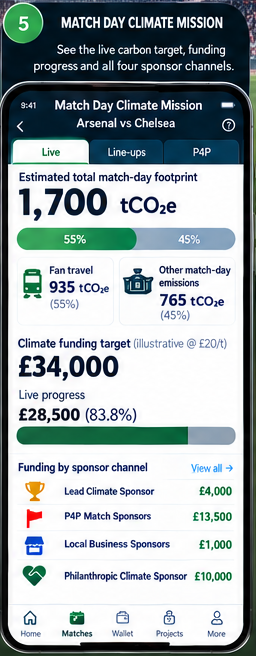
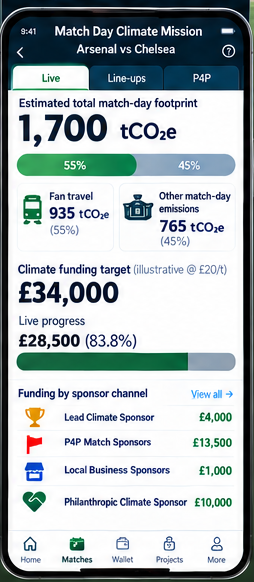
Use the new How S4P Works phone screens for steps 01-06.
Drop the extra title strip above each phone so the carousel shows the attached mockups only.

diff --git a/app/components/home/HowItWorks.tsx b/app/components/home/HowItWorks.tsx
@@ -30,7 +30,7 @@ const steps: Array<{
     src: "/images/home/access-join-phone.png",
     alt: "Access and join Score-For-Planet. Same passion. Cleaner planet. Scan the QR code to join, create an account, or log in.",
     width: 248,
-    height: 662,
+    height: 584,
     number: "01",
     badge: "Step 1",
     title: "Access & Join",
@@ -46,7 +46,7 @@ const steps: Array<{
     src: "/images/home/select-match-phone.png",
     alt: "Select match. Choose your club and match from the calendar. Arsenal fixtures including Arsenal vs Chelsea at Emirates Stadium.",
     width: 247,
-    height: 671,
+    height: 589,
     number: "02",
     badge: "Step 2",
     title: "Select Match",
@@ -62,7 +62,7 @@ const steps: Array<{
     src: "/images/home/how-youre-supporting-phone.png",
     alt: "How you're supporting. Tell us if you're attending the match or watching remotely. Arsenal vs Chelsea at Emirates Stadium.",
     width: 252,
-    height: 662,
+    height: 585,
     number: "03",
     badge: "Step 3",
     title: "How You're Supporting",
@@ -78,7 +78,7 @@ const steps: Array<{
     src: "/images/home/plan-your-travel-phone.png",
     alt: "Plan your travel. Simple input. No postcode. Just your estimated miles and travel type. Arsenal vs Chelsea travel footprint.",
     width: 244,
-    height: 659,
+    height: 581,
     number: "04",
     badge: "Step 4",
     title: "Plan Your Travel",
@@ -93,8 +93,8 @@ const steps: Array<{
   {
     src: "/images/home/match-day-climate-mission-phone.png",
     alt: "Match day climate mission. See the live carbon target, funding progress and all four sponsor channels. Arsenal vs Chelsea.",
-    width: 256,
-    height: 656,
+    width: 254,
+    height: 582,
     number: "05",
     badge: "Step 5",
     title: "Match Day Climate Mission",
@@ -109,8 +109,8 @@ const steps: Array<{
   {
     src: "/images/home/choose-direct-impact-phone.png",
     alt: "Choose and direct your impact. Use your Fan Carbon Wallet to allocate sponsor-funded money to climate projects.",
-    width: 255,
-    height: 656,
+    width: 251,
+    height: 581,
     number: "06",
     badge: "Final step",
     title: "Direct Your Impact",
